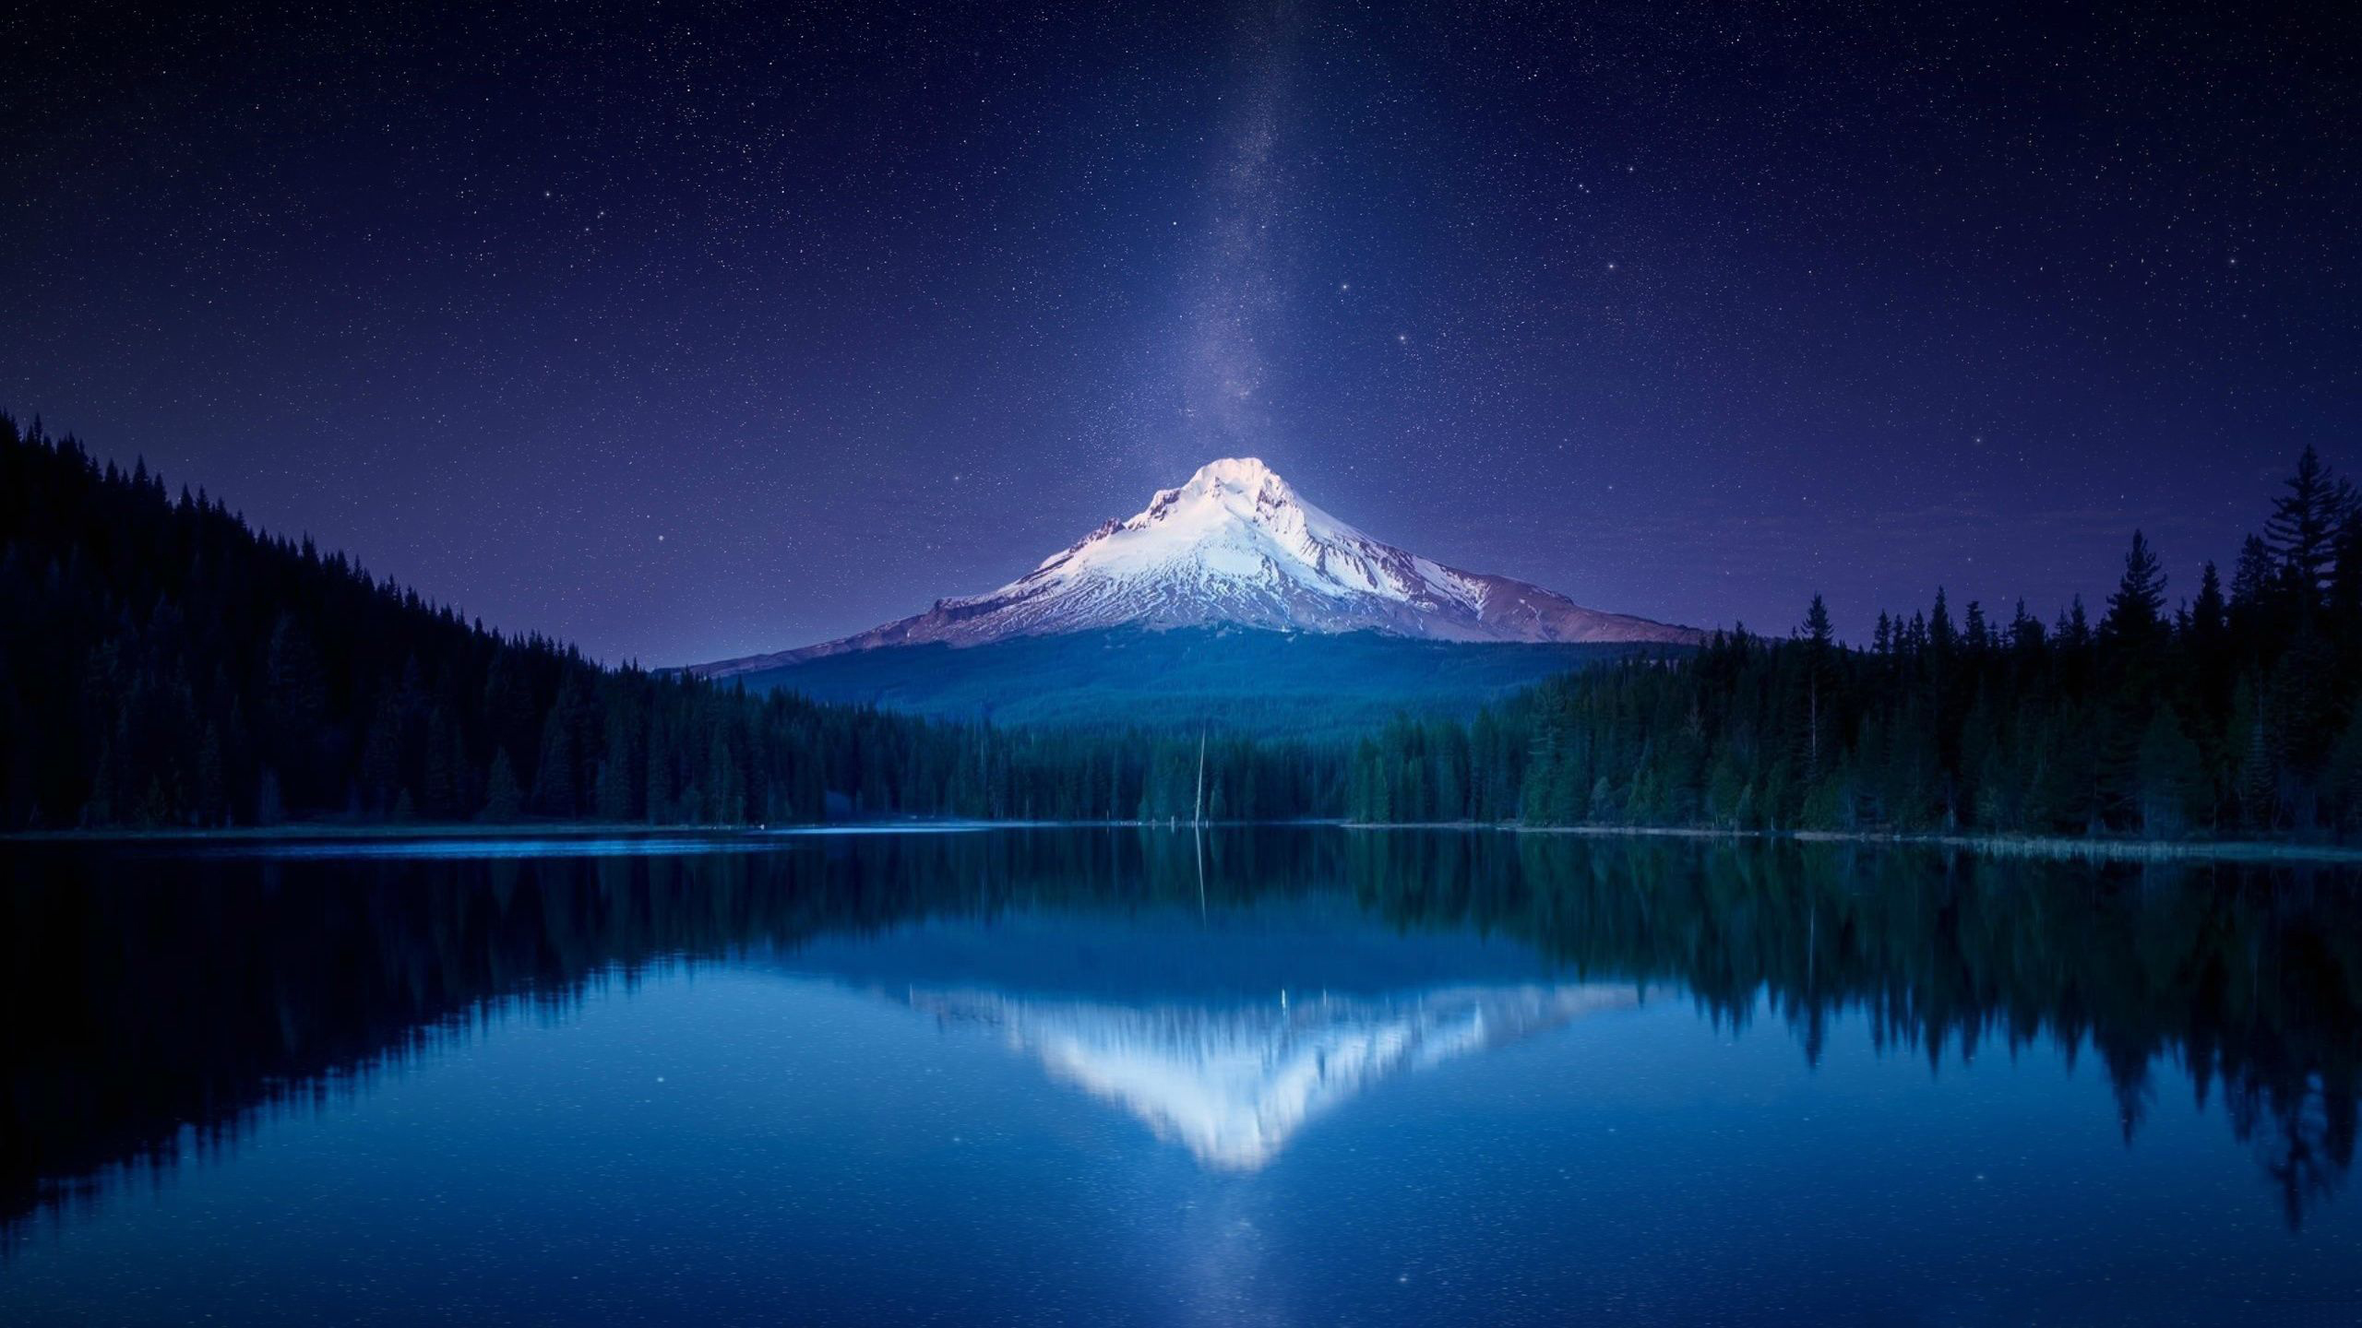
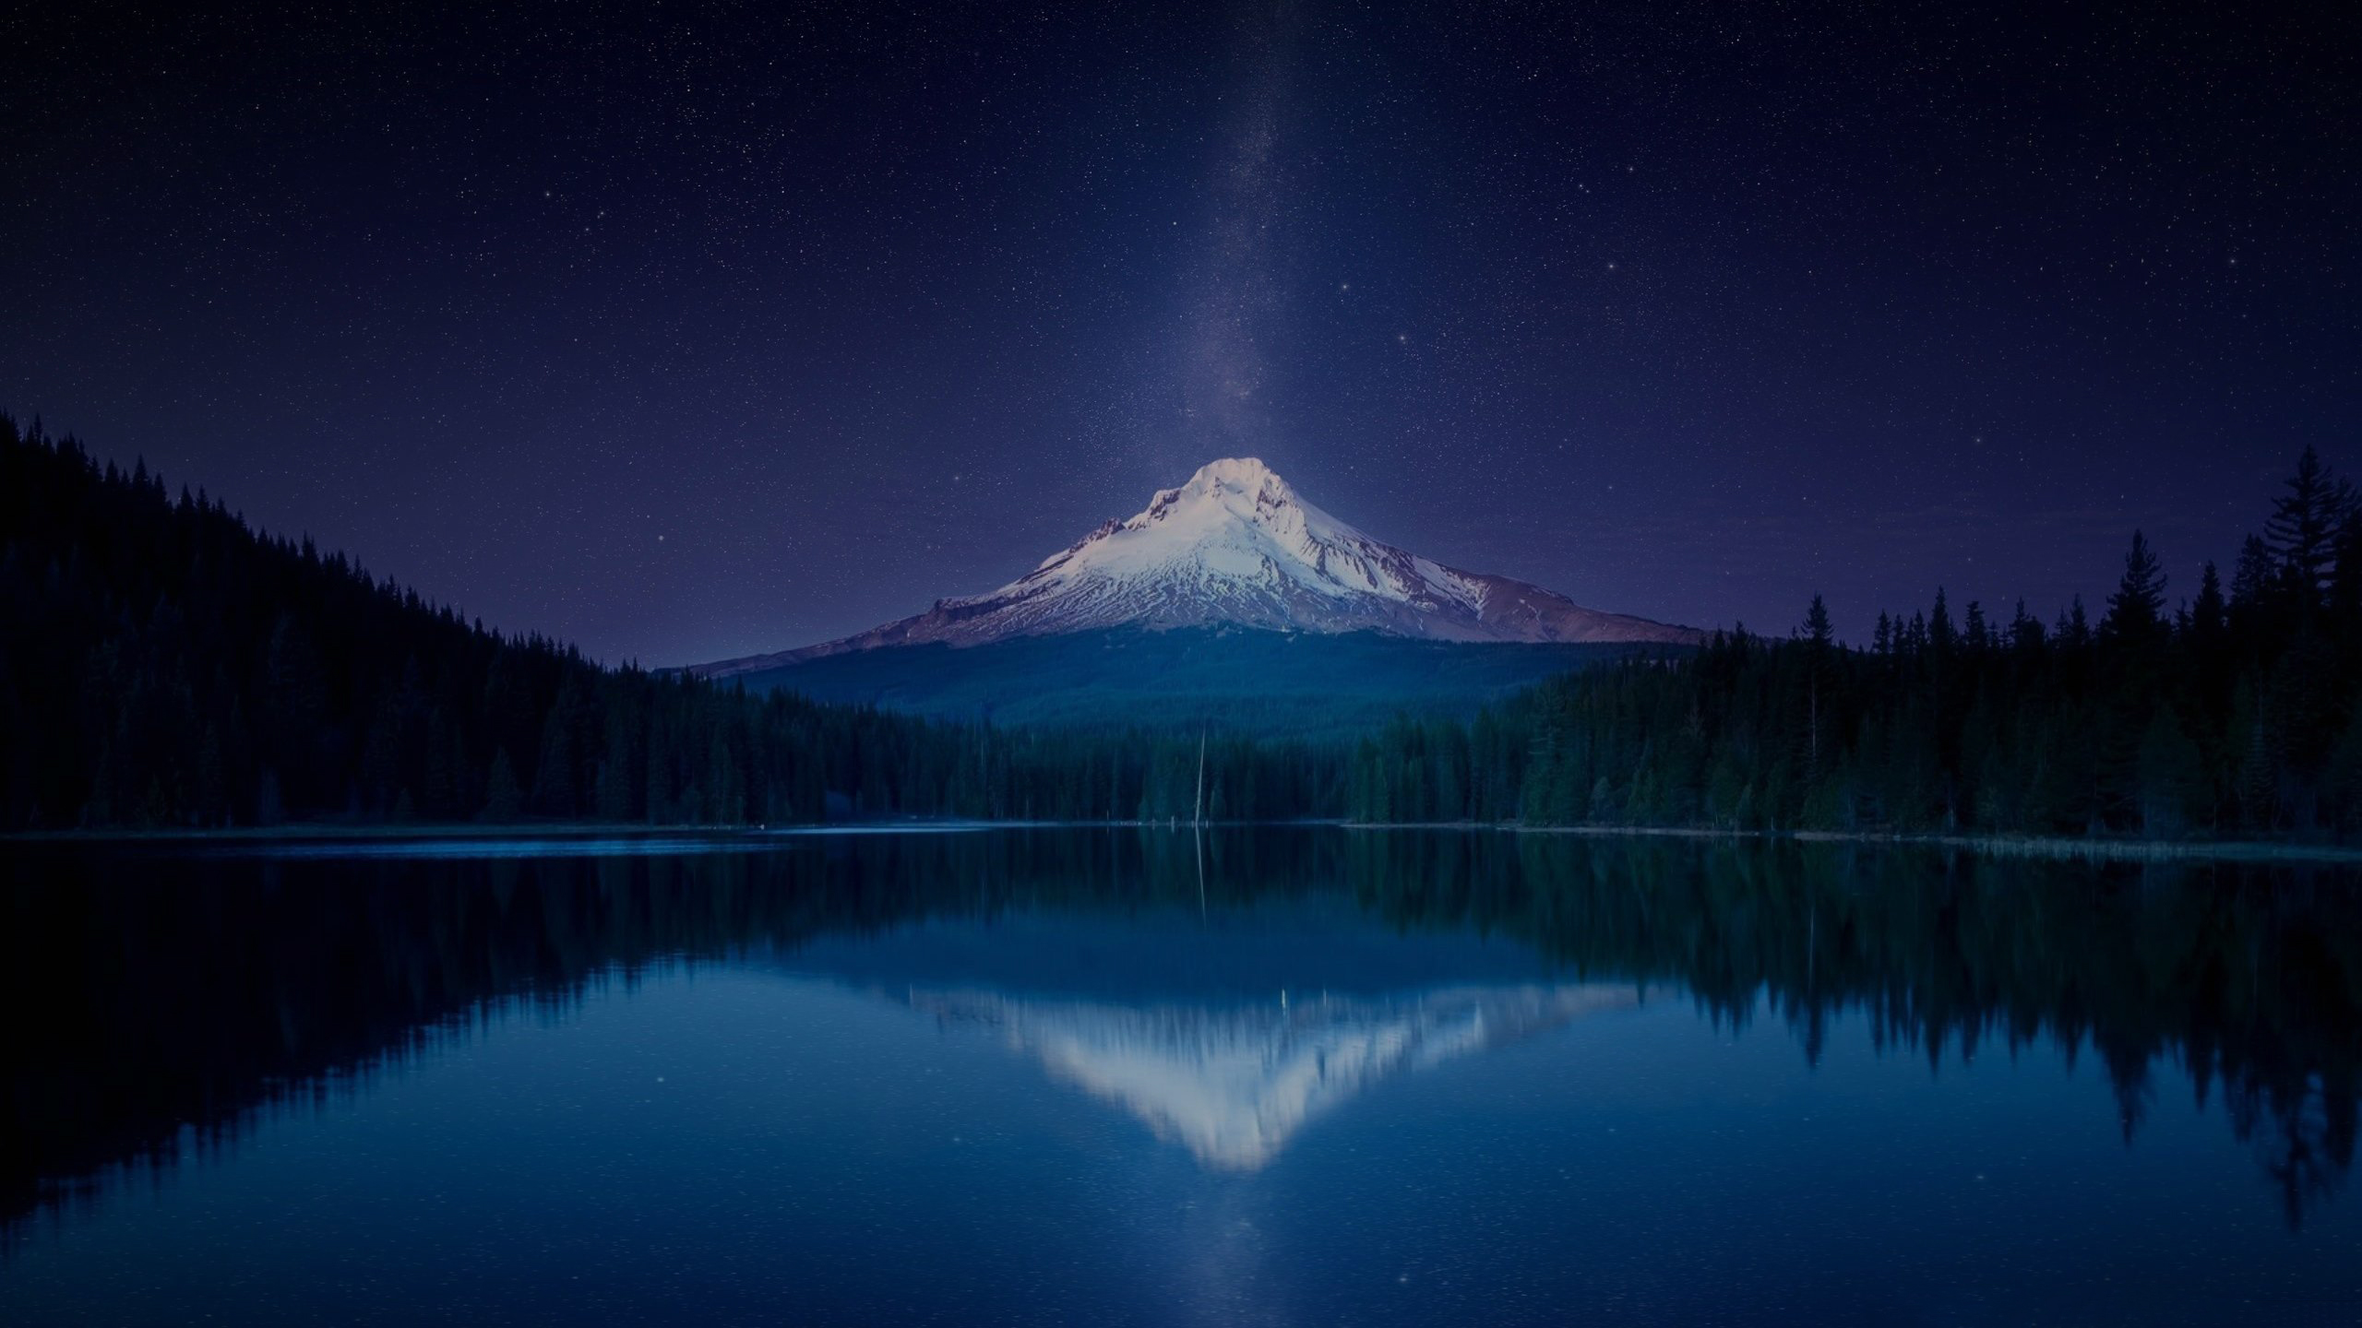
Add blazy for background

diff --git a/app/assets/js/blazy.js b/app/assets/js/blazy.js
@@ -1,0 +1,370 @@
+/*!
+  hey, [be]Lazy.js - v1.8.2 - 2016.10.25
+  A fast, small and dependency free lazy load script (https://github.com/dinbror/blazy)
+  (c) Bjoern Klinggaard - @bklinggaard - http://dinbror.dk/blazy
+*/
+;
+(function(root, blazy) {
+    if (typeof define === 'function' && define.amd) {
+        // AMD. Register bLazy as an anonymous module
+        define(blazy);
+    } else if (typeof exports === 'object') {
+        // Node. Does not work with strict CommonJS, but
+        // only CommonJS-like environments that support module.exports,
+        // like Node.
+        module.exports = blazy();
+    } else {
+        // Browser globals. Register bLazy on window
+        root.Blazy = blazy();
+    }
+})(this, function() {
+    'use strict';
+
+    //private vars
+    var _source, _viewport, _isRetina, _supportClosest, _attrSrc = 'src', _attrSrcset = 'srcset';
+
+    // constructor
+    return function Blazy(options) {
+        //IE7- fallback for missing querySelectorAll support
+        if (!document.querySelectorAll) {
+            var s = document.createStyleSheet();
+            document.querySelectorAll = function(r, c, i, j, a) {
+                a = document.all, c = [], r = r.replace(/\[for\b/gi, '[htmlFor').split(',');
+                for (i = r.length; i--;) {
+                    s.addRule(r[i], 'k:v');
+                    for (j = a.length; j--;) a[j].currentStyle.k && c.push(a[j]);
+                    s.removeRule(0);
+                }
+                return c;
+            };
+        }
+
+        //options and helper vars
+        var scope = this;
+        var util = scope._util = {};
+        util.elements = [];
+        util.destroyed = true;
+        scope.options = options || {};
+        scope.options.error = scope.options.error || false;
+        scope.options.offset = scope.options.offset || 100;
+        scope.options.root = scope.options.root || document;
+        scope.options.success = scope.options.success || false;
+        scope.options.selector = scope.options.selector || '.b-lazy';
+        scope.options.separator = scope.options.separator || '|';
+        scope.options.containerClass = scope.options.container;
+        scope.options.container = scope.options.containerClass ? document.querySelectorAll(scope.options.containerClass) : false;
+        scope.options.errorClass = scope.options.errorClass || 'b-error';
+        scope.options.breakpoints = scope.options.breakpoints || false;
+        scope.options.loadInvisible = scope.options.loadInvisible || false;
+        scope.options.successClass = scope.options.successClass || 'b-loaded';
+        scope.options.validateDelay = scope.options.validateDelay || 25;
+        scope.options.saveViewportOffsetDelay = scope.options.saveViewportOffsetDelay || 50;
+        scope.options.srcset = scope.options.srcset || 'data-srcset';
+        scope.options.src = _source = scope.options.src || 'data-src';
+        _supportClosest = Element.prototype.closest;
+        _isRetina = window.devicePixelRatio > 1;
+        _viewport = {};
+        _viewport.top = 0 - scope.options.offset;
+        _viewport.left = 0 - scope.options.offset;
+
+
+        /* public functions
+         ************************************/
+        scope.revalidate = function() {
+            initialize(scope);
+        };
+        scope.load = function(elements, force) {
+            var opt = this.options;
+            if (elements && elements.length === undefined) {
+                loadElement(elements, force, opt);
+            } else {
+                each(elements, function(element) {
+                    loadElement(element, force, opt);
+                });
+            }
+        };
+        scope.destroy = function() {
+            var util = scope._util;
+            if (scope.options.container) {
+                each(scope.options.container, function(object) {
+                    unbindEvent(object, 'scroll', util.validateT);
+                });
+            }
+            unbindEvent(window, 'scroll', util.validateT);
+            unbindEvent(window, 'resize', util.validateT);
+            unbindEvent(window, 'resize', util.saveViewportOffsetT);
+            util.count = 0;
+            util.elements.length = 0;
+            util.destroyed = true;
+        };
+
+        //throttle, ensures that we don't call the functions too often
+        util.validateT = throttle(function() {
+            validate(scope);
+        }, scope.options.validateDelay, scope);
+        util.saveViewportOffsetT = throttle(function() {
+            saveViewportOffset(scope.options.offset);
+        }, scope.options.saveViewportOffsetDelay, scope);
+        saveViewportOffset(scope.options.offset);
+
+        //handle multi-served image src (obsolete)
+        each(scope.options.breakpoints, function(object) {
+            if (object.width >= window.screen.width) {
+                _source = object.src;
+                return false;
+            }
+        });
+
+        // start lazy load
+        setTimeout(function() {
+            initialize(scope);
+        }); // "dom ready" fix
+
+    };
+
+
+    /* Private helper functions
+     ************************************/
+    function initialize(self) {
+        var util = self._util;
+        // First we create an array of elements to lazy load
+        util.elements = toArray(self.options);
+        util.count = util.elements.length;
+        // Then we bind resize and scroll events if not already binded
+        if (util.destroyed) {
+            util.destroyed = false;
+            if (self.options.container) {
+                each(self.options.container, function(object) {
+                    bindEvent(object, 'scroll', util.validateT);
+                });
+            }
+            bindEvent(window, 'resize', util.saveViewportOffsetT);
+            bindEvent(window, 'resize', util.validateT);
+            bindEvent(window, 'scroll', util.validateT);
+        }
+        // And finally, we start to lazy load.
+        validate(self);
+    }
+
+    function validate(self) {
+        var util = self._util;
+        for (var i = 0; i < util.count; i++) {
+            var element = util.elements[i];
+            if (elementInView(element, self.options) || hasClass(element, self.options.successClass)) {
+                self.load(element);
+                util.elements.splice(i, 1);
+                util.count--;
+                i--;
+            }
+        }
+        if (util.count === 0) {
+            self.destroy();
+        }
+    }
+
+    function elementInView(ele, options) {
+        var rect = ele.getBoundingClientRect();
+
+        if(options.container && _supportClosest){
+            // Is element inside a container?
+            var elementContainer = ele.closest(options.containerClass);
+            if(elementContainer){
+                var containerRect = elementContainer.getBoundingClientRect();
+                // Is container in view?
+                if(inView(containerRect, _viewport)){
+                    var top = containerRect.top - options.offset;
+                    var right = containerRect.right + options.offset;
+                    var bottom = containerRect.bottom + options.offset;
+                    var left = containerRect.left - options.offset;
+                    var containerRectWithOffset = {
+                        top: top > _viewport.top ? top : _viewport.top,
+                        right: right < _viewport.right ? right : _viewport.right,
+                        bottom: bottom < _viewport.bottom ? bottom : _viewport.bottom,
+                        left: left > _viewport.left ? left : _viewport.left
+                    };
+                    // Is element in view of container?
+                    return inView(rect, containerRectWithOffset);
+                } else {
+                    return false;
+                }
+            }
+        }
+        return inView(rect, _viewport);
+    }
+
+    function inView(rect, viewport){
+        // Intersection
+        return rect.right >= viewport.left &&
+               rect.bottom >= viewport.top &&
+               rect.left <= viewport.right &&
+               rect.top <= viewport.bottom;
+    }
+
+    function loadElement(ele, force, options) {
+        // if element is visible, not loaded or forced
+        if (!hasClass(ele, options.successClass) && (force || options.loadInvisible || (ele.offsetWidth > 0 && ele.offsetHeight > 0))) {
+            var dataSrc = getAttr(ele, _source) || getAttr(ele, options.src); // fallback to default 'data-src'
+            if (dataSrc) {
+                var dataSrcSplitted = dataSrc.split(options.separator);
+                var src = dataSrcSplitted[_isRetina && dataSrcSplitted.length > 1 ? 1 : 0];
+                var srcset = getAttr(ele, options.srcset);
+                var isImage = equal(ele, 'img');
+                var parent = ele.parentNode;
+                var isPicture = parent && equal(parent, 'picture');
+                // Image or background image
+                if (isImage || ele.src === undefined) {
+                    var img = new Image();
+                    // using EventListener instead of onerror and onload
+                    // due to bug introduced in chrome v50
+                    // (https://productforums.google.com/forum/#!topic/chrome/p51Lk7vnP2o)
+                    var onErrorHandler = function() {
+                        if (options.error) options.error(ele, "invalid");
+                        addClass(ele, options.errorClass);
+                        unbindEvent(img, 'error', onErrorHandler);
+                        unbindEvent(img, 'load', onLoadHandler);
+                    };
+                    var onLoadHandler = function() {
+                        // Is element an image
+                        if (isImage) {
+                            if(!isPicture) {
+                                handleSources(ele, src, srcset);
+                            }
+                        // or background-image
+                        } else {
+                            ele.style.backgroundImage = 'url("' + src + '")';
+                        }
+                        itemLoaded(ele, options);
+                        unbindEvent(img, 'load', onLoadHandler);
+                        unbindEvent(img, 'error', onErrorHandler);
+                    };
+
+                    // Picture element
+                    if (isPicture) {
+                        img = ele; // Image tag inside picture element wont get preloaded
+                        each(parent.getElementsByTagName('source'), function(source) {
+                            handleSource(source, _attrSrcset, options.srcset);
+                        });
+                    }
+                    bindEvent(img, 'error', onErrorHandler);
+                    bindEvent(img, 'load', onLoadHandler);
+                    handleSources(img, src, srcset); // Preload
+
+                } else { // An item with src like iframe, unity games, simpel video etc
+                    ele.src = src;
+                    itemLoaded(ele, options);
+                }
+            } else {
+                // video with child source
+                if (equal(ele, 'video')) {
+                    each(ele.getElementsByTagName('source'), function(source) {
+                        handleSource(source, _attrSrc, options.src);
+                    });
+                    ele.load();
+                    itemLoaded(ele, options);
+                } else {
+                    if (options.error) options.error(ele, "missing");
+                    addClass(ele, options.errorClass);
+                }
+            }
+        }
+    }
+
+    function itemLoaded(ele, options) {
+        addClass(ele, options.successClass);
+        if (options.success) options.success(ele);
+        // cleanup markup, remove data source attributes
+        removeAttr(ele, options.src);
+        removeAttr(ele, options.srcset);
+        each(options.breakpoints, function(object) {
+            removeAttr(ele, object.src);
+        });
+    }
+
+    function handleSource(ele, attr, dataAttr) {
+        var dataSrc = getAttr(ele, dataAttr);
+        if (dataSrc) {
+            setAttr(ele, attr, dataSrc);
+            removeAttr(ele, dataAttr);
+        }
+    }
+
+    function handleSources(ele, src, srcset){
+        if(srcset) {
+            setAttr(ele, _attrSrcset, srcset); //srcset
+        }
+        ele.src = src; //src
+    }
+
+    function setAttr(ele, attr, value){
+        ele.setAttribute(attr, value);
+    }
+
+    function getAttr(ele, attr) {
+        return ele.getAttribute(attr);
+    }
+
+    function removeAttr(ele, attr){
+        ele.removeAttribute(attr);
+    }
+
+    function equal(ele, str) {
+        return ele.nodeName.toLowerCase() === str;
+    }
+
+    function hasClass(ele, className) {
+        return (' ' + ele.className + ' ').indexOf(' ' + className + ' ') !== -1;
+    }
+
+    function addClass(ele, className) {
+        if (!hasClass(ele, className)) {
+            ele.className += ' ' + className;
+        }
+    }
+
+    function toArray(options) {
+        var array = [];
+        var nodelist = (options.root).querySelectorAll(options.selector);
+        for (var i = nodelist.length; i--; array.unshift(nodelist[i])) {}
+        return array;
+    }
+
+    function saveViewportOffset(offset) {
+        _viewport.bottom = (window.innerHeight || document.documentElement.clientHeight) + offset;
+        _viewport.right = (window.innerWidth || document.documentElement.clientWidth) + offset;
+    }
+
+    function bindEvent(ele, type, fn) {
+        if (ele.attachEvent) {
+            ele.attachEvent && ele.attachEvent('on' + type, fn);
+        } else {
+            ele.addEventListener(type, fn, { capture: false, passive: true });
+        }
+    }
+
+    function unbindEvent(ele, type, fn) {
+        if (ele.detachEvent) {
+            ele.detachEvent && ele.detachEvent('on' + type, fn);
+        } else {
+            ele.removeEventListener(type, fn, { capture: false, passive: true });
+        }
+    }
+
+    function each(object, fn) {
+        if (object && fn) {
+            var l = object.length;
+            for (var i = 0; i < l && fn(object[i], i) !== false; i++) {}
+        }
+    }
+
+    function throttle(fn, minDelay, scope) {
+        var lastCall = 0;
+        return function() {
+            var now = +new Date();
+            if (now - lastCall < minDelay) {
+                return;
+            }
+            lastCall = now;
+            fn.apply(scope, arguments);
+        };
+    }
+});

diff --git a/app/assets/sass/index.scss b/app/assets/sass/index.scss
@@ -7,10 +7,6 @@
     background-repeat: no-repeat;
     background-size: cover;
     padding-top: 0;
-    background-image: -moz-linear-gradient(top, rgba(0,0,0,0.5), rgba(0,0,0,0.5)), url(/static/images/bg.jpg);
-    background-image: -webkit-linear-gradient(top, rgba(0,0,0,0.5), rgba(0,0,0,0.5)), url(/static/images/bg.jpg);
-    background-image: -ms-linear-gradient(top, rgba(0,0,0,0.5), rgba(0,0,0,0.5)), url(/static/images/bg.jpg);
-    background-image: linear-gradient(top, rgba(0,0,0,0.5), rgba(0,0,0,0.5)), url(/static/images/bg.jpg);
     position: fixed;
     width: 100vw;
     height: 100vh;

diff --git a/app/assets.py b/app/assets.py
@@ -21,6 +21,7 @@ scss_main = Bundle(
 
 js = Bundle(
     '../assets/js/materialize.js',
+    '../assets/js/blazy.js',
     filters=(ConcatFilter, 'jsmin'),
     output='js/packed.js'
 )
